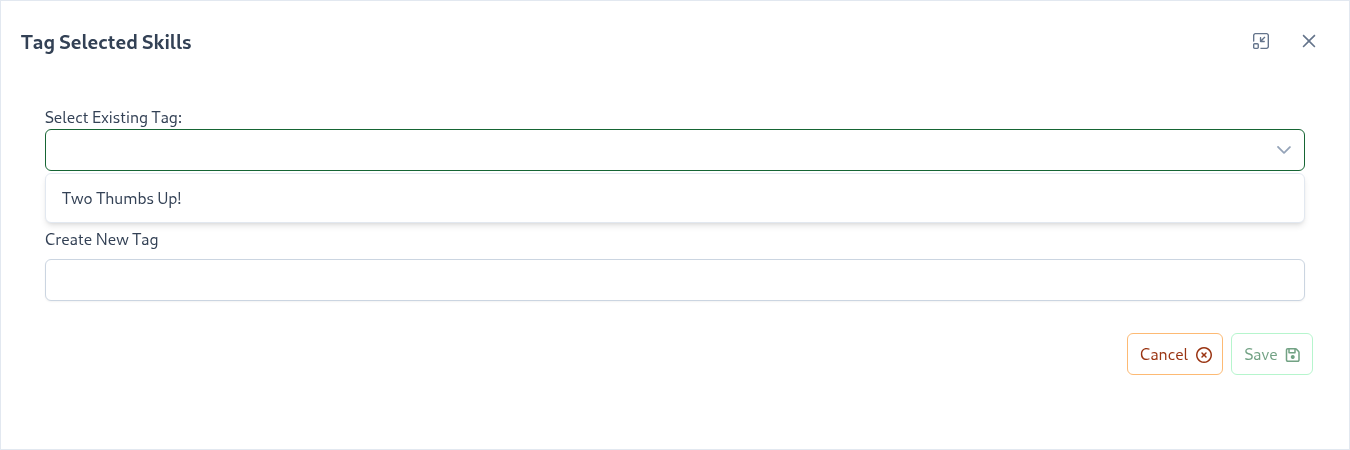
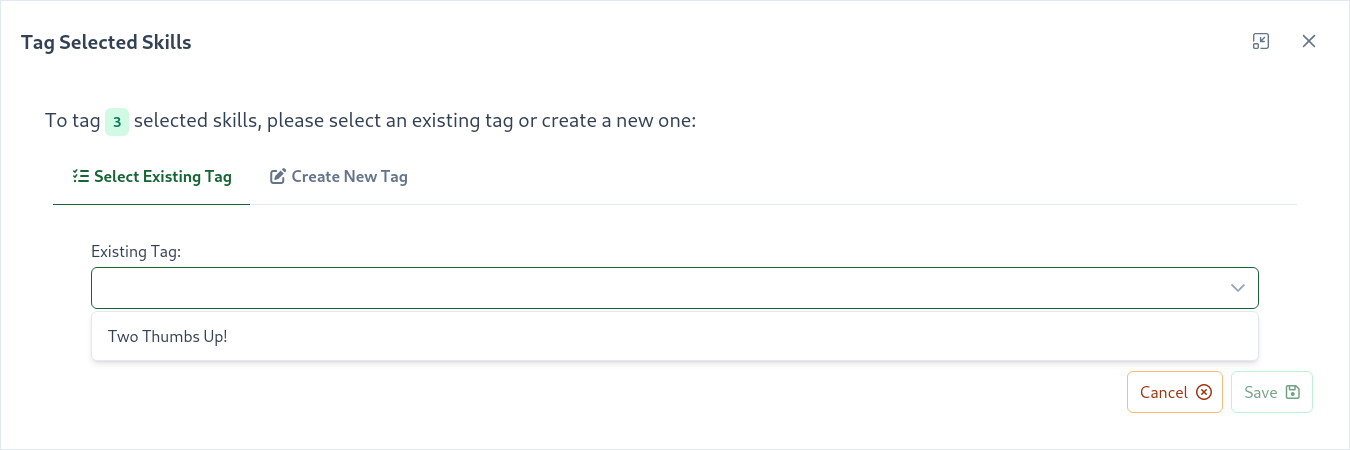
#359 - update existing skill tag docs for the admin subject page

diff --git a/cypress/e2e/admin.cy.js b/cypress/e2e/admin.cy.js
@@ -182,9 +182,8 @@ context('Admin: Generate Screenshots', () => {
         cy.snap('page-project-self_report', '#mainContent1 [data-cy="nav"]');
     });
 
-    it('Skill Tags page', () => {
+    it('Skill Tags from subject page', () => {
         cy.viewport(1350, 1200);
-
         cy.visit('/administrator/projects/movies/subjects/Action')
 
         for (let i = 0; i < 3; i++) {
@@ -193,9 +192,17 @@ context('Admin: Generate Screenshots', () => {
         cy.get('[data-cy="skillActionsBtn"]').click();
         cy.get('[data-cy="skillsActionsMenu"] [aria-label="Add Tag"]').click()
 
+        cy.viewport(1350, 550);
         const tagName = 'Two Thumbs Up!'
-        cy.get('[data-cy="newTag"]').clear().type(tagName)
+        cy.get('[data-cy="noTagsMessage"]').should('be.visible')
+        cy.get('[data-pc-name="pcmaximizebutton"]').click()
+        cy.wait(1000)
+        cy.get('[data-pc-section="tablist"] [data-pc-name="tab"]').contains('Create New Tag').click()
+        cy.get('[data-cy="tagValue"]').clear().type(tagName)
+        cy.snap('create-new-tag-from-subject-page', '.p-dialog')
         cy.get('[data-cy="saveDialogBtn"]').click()
+
+        cy.viewport(1350, 1200);
 
         for (let i = 0; i < 3; i++) {
             cy.get(`[data-cy="skillsTable"] [data-p-index="${i}"] [data-pc-name="pcrowcheckbox"]`).click()
@@ -203,7 +210,7 @@ context('Admin: Generate Screenshots', () => {
         cy.get('[data-cy="skillActionsBtn"]').click();
         cy.get('[data-cy="skillsActionsMenu"] [aria-label="Add Tag"]')
 
-        cy.snap('skill-tags-page')
+        cy.snap('skill-tags-on-subject-page')
 
         cy.viewport(1350, 450);
         cy.visit('/administrator/projects/movies/subjects/Action')

diff --git a/docs/dashboard/user-guide/skills.md b/docs/dashboard/user-guide/skills.md
@@ -417,8 +417,11 @@ Select the ``Tag Skill`` button to initiate the process.  After a tag has been a
 removed by selecting the skills you would like to remove the tag from, then click on the ``Action`` button, and then ``Remove Tags``.
 
 ::: tip
+To create a new tag for the first time, click on the "Create New Tag" tab and enter your new tag value.
+![Create new tag](../../screenshots/admin/create-new-tag-from-subject-page.png)
+
 Once a skill tag is created, you can easily reuse it to tag other skills by selecting it from the ``Existing Tag`` drop down menu.
 ![Existing tag menu](../../screenshots/admin/existing-tag-dropdown.png)
 :::
 
-![Tag skills](../../screenshots/admin/skill-tags-page.png)
+![Tag skills](../../screenshots/admin/skill-tags-on-subject-page.png)
